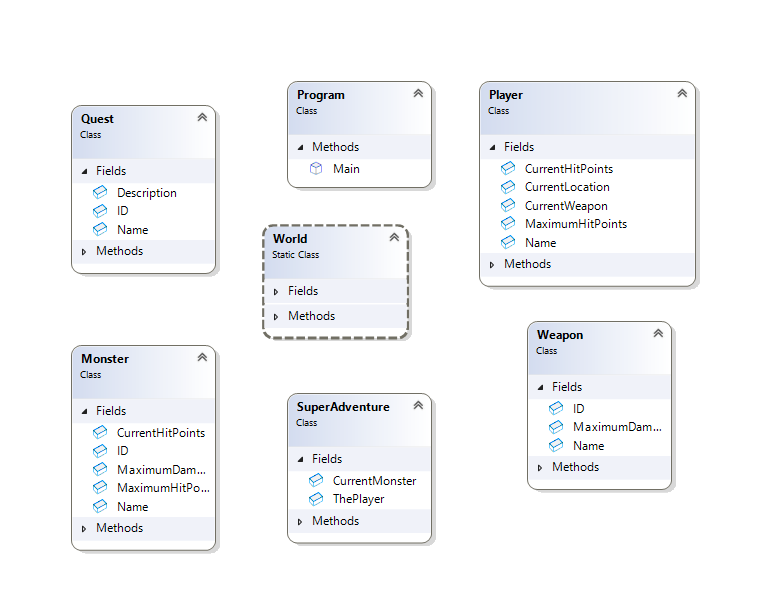
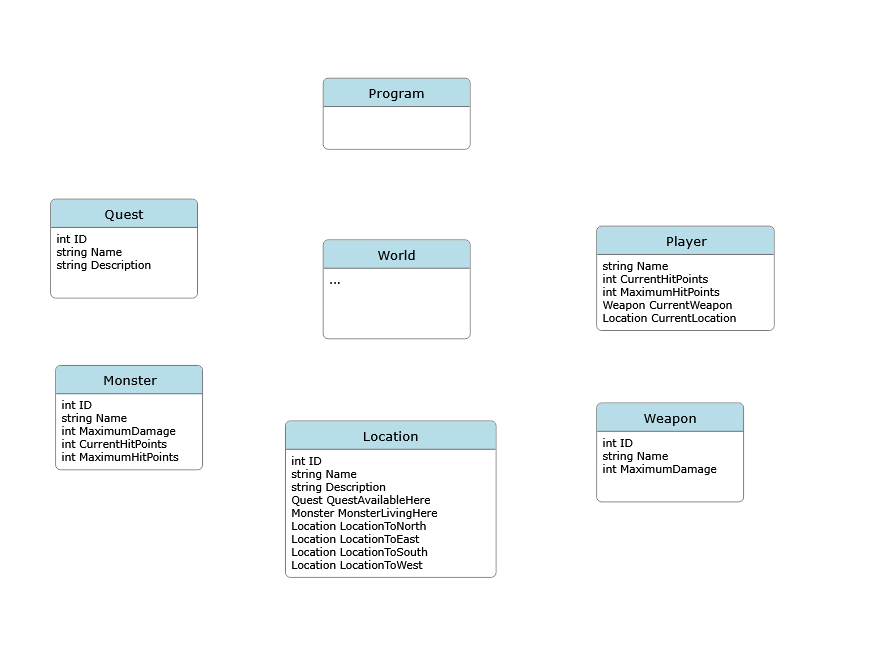
nieuwe class diagram

diff --git a/ProjectAlpha/SuperAdventure.cs b/ProjectAlpha/SuperAdventure.cs
@@ -1,3 +1,7 @@
+using System.Diagnostics.Contracts;
+using System.Security.Cryptography;
+using System.Security.Cryptography.X509Certificates;
+
 public class SuperAdventure
 {
     public string CurrentMonster;
